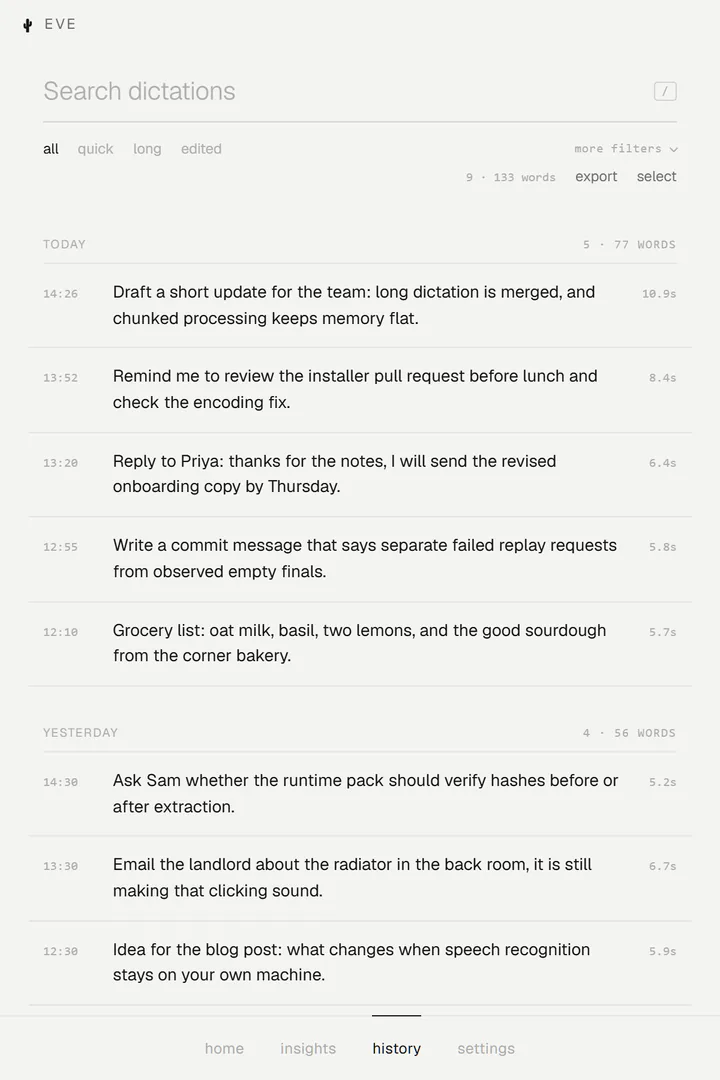
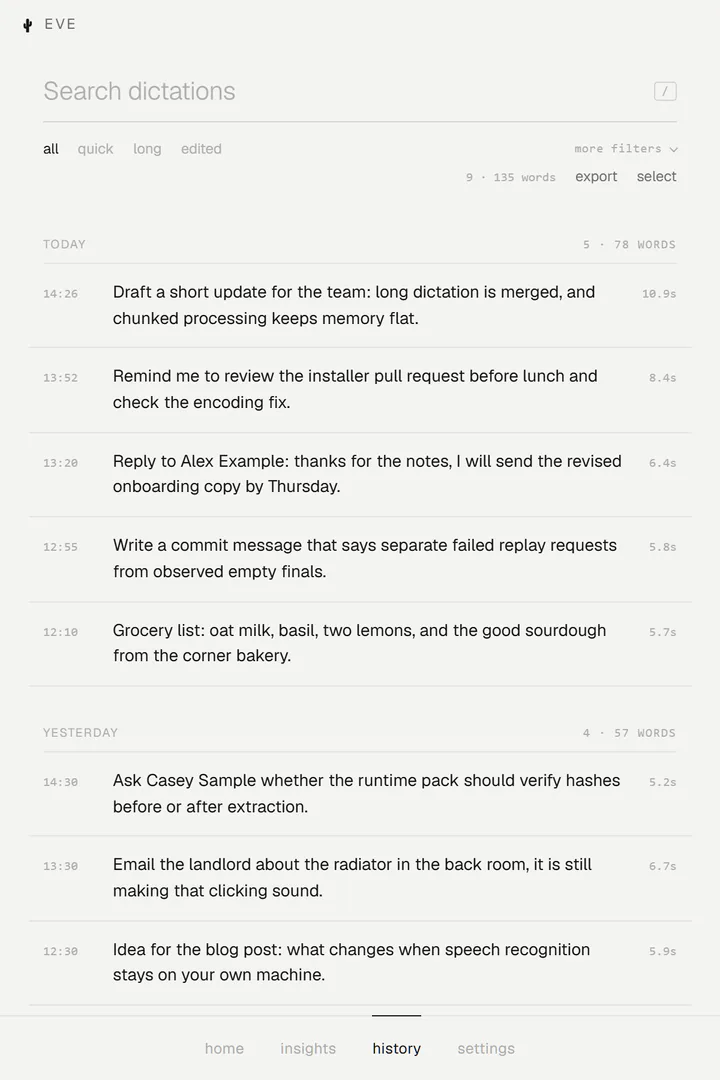
Keep site release details from going stale
Name the version in one place only, derive the channel label from the release tag, and accept release links only inside this repository. softwareVersion is now added to the structured data from the fetched release. Page copy, llms files and the social card no longer name a version or channel. Note that new CPU-only profiles start on small, credit the AVIF sprite, and use fictional names in the History demo.

Changed region(s): [[0.2444, 0.3972, 0.7639, 0.4583], [0.1528, 0.7028, 0.8556, 0.7639]]

diff --git a/site/index.html b/site/index.html
@@ -4,7 +4,7 @@
   <meta charset="utf-8">
   <meta name="viewport" content="width=device-width, initial-scale=1">
   <title>Eve: free local voice dictation for Windows (open source)</title>
-  <meta name="description" content="Eve is a free, open-source dictation app for Windows 10 and 11. Hold a hotkey, speak, and the text is pasted when you stop. Speech runs on your PC. Alpha.">
+  <meta name="description" content="Eve is a free, open-source dictation app for Windows 10 and 11. Hold a hotkey, speak, and the text is pasted when you stop. Speech runs on your PC. Pre-release.">
   <link rel="canonical" href="https://burntcookiedough.github.io/eve-windows-dictation/">
   <meta name="color-scheme" content="dark light">
   <meta name="theme-color" content="#0b0b0b">
@@ -14,7 +14,7 @@
   <meta property="og:locale" content="en_US">
   <meta property="og:url" content="https://burntcookiedough.github.io/eve-windows-dictation/">
   <meta property="og:title" content="Eve: free local voice dictation for Windows">
-  <meta property="og:description" content="Hold a hotkey, speak, and Eve pastes the text when you stop. Speech recognition runs on your own PC. Open source, alpha pre-release.">
+  <meta property="og:description" content="Hold a hotkey, speak, and Eve pastes the text when you stop. Speech recognition runs on your own PC. Open source, pre-release software.">
   <meta property="og:image" content="https://burntcookiedough.github.io/eve-windows-dictation/assets/og.png">
   <meta property="og:image:type" content="image/png">
   <meta property="og:image:width" content="1200">
@@ -22,7 +22,7 @@
   <meta property="og:image:alt" content="Talk. Eve pastes it. Local voice dictation for Windows, shown with the Eve cactus and its small dictation pill.">
   <meta name="twitter:card" content="summary_large_image">
   <meta name="twitter:title" content="Eve: free local voice dictation for Windows">
-  <meta name="twitter:description" content="Hold a hotkey, speak, and Eve pastes the text when you stop. Speech recognition runs on your own PC. Open source, alpha pre-release.">
+  <meta name="twitter:description" content="Hold a hotkey, speak, and Eve pastes the text when you stop. Speech recognition runs on your own PC. Open source, pre-release software.">
   <meta name="twitter:image" content="https://burntcookiedough.github.io/eve-windows-dictation/assets/og.png">
   <meta name="twitter:image:alt" content="Talk. Eve pastes it. Local voice dictation for Windows, shown with the Eve cactus and its small dictation pill.">
 
@@ -31,12 +31,12 @@
   <link rel="preload" href="assets/fonts/geist-latin.woff2" as="font" type="font/woff2" crossorigin>
   <link rel="stylesheet" href="styles.css">
 
-  <script type="application/ld+json">
+  <script type="application/ld+json" id="ld-app">
   {
     "@context": "https://schema.org",
     "@type": "SoftwareApplication",
     "name": "Eve",
-    "description": "Free, open-source push-to-talk dictation for Windows. Speech recognition runs on your own machine and Eve pastes the text when you stop. Alpha pre-release.",
+    "description": "Free, open-source push-to-talk dictation for Windows. Speech recognition runs on your own machine and Eve pastes the text when you stop. Pre-release software.",
     "url": "https://burntcookiedough.github.io/eve-windows-dictation/",
     "image": "https://burntcookiedough.github.io/eve-windows-dictation/assets/og.png",
     "screenshot": "https://burntcookiedough.github.io/eve-windows-dictation/assets/screens/eve-home.png",
@@ -44,8 +44,7 @@
     "processorRequirements": "x86-64",
     "memoryRequirements": "4 GB minimum; 8 GB or more recommended",
     "applicationCategory": "UtilitiesApplication",
-    "softwareVersion": "v0.8.2-alpha.9",
-    "releaseNotes": "https://github.com/burntcookiedough/eve-windows-dictation/releases/tag/v0.8.2-alpha.9",
+    "releaseNotes": "https://github.com/burntcookiedough/eve-windows-dictation/releases",
     "downloadUrl": "https://github.com/burntcookiedough/eve-windows-dictation/releases",
     "license": "https://github.com/burntcookiedough/eve-windows-dictation/blob/trunk/LICENSE",
     "sameAs": "https://github.com/burntcookiedough/eve-windows-dictation",
@@ -91,7 +90,7 @@
       {
         "@type": "Question",
         "name": "Is Eve ready for everyday use?",
-        "acceptedAnswer": { "@type": "Answer", "text": "Eve v0.8.2-alpha.9 is an alpha pre-release, so expect rough edges. Its release notes say that automated tests and synthetic overlay checks do not establish real microphone dictation acceptance or clean-machine installer lifecycle acceptance. Eve is free and MIT licensed." }
+        "acceptedAnswer": { "@type": "Answer", "text": "Eve is pre-release software, so expect rough edges. Before you rely on it, read the latest release notes on GitHub Releases to see what has and has not been verified. Eve is free and MIT licensed." }
       }
     ]
   }
@@ -169,10 +168,10 @@
               <a class="button primary" data-download href="https://github.com/burntcookiedough/eve-windows-dictation/releases">download for windows</a>
               <a class="button" href="https://github.com/burntcookiedough/eve-windows-dictation">view source</a>
             </div>
-            <p class="release-note mono"><span data-version>v0.8.2-alpha.9</span> · <span data-channel>alpha pre-release</span></p>
+            <p class="release-note mono"><span data-version>v0.8.2-alpha.9</span><span data-channel> · alpha pre-release</span></p>
           </div>
           <dl class="hero-meta">
-            <div><dt>version</dt><dd data-version>v0.8.2-alpha.9</dd></div>
+            <div><dt>license</dt><dd>MIT</dd></div>
             <div><dt>platform</dt><dd>windows 10 / 11, x64</dd></div>
             <div><dt>price</dt><dd>free · open source</dd></div>
           </dl>
@@ -355,7 +354,7 @@
           </article>
           <article class="feat">
             <p class="feat-n">05</p>
-            <div class="feat-vis" aria-hidden="true"><span>Kubernetes</span><span>CUDA</span><span>Priya</span><span>SQLite</span></div>
+            <div class="feat-vis" aria-hidden="true"><span>Kubernetes</span><span>CUDA</span><span>Alex Example</span><span>SQLite</span></div>
             <h3>Knows your words.</h3>
             <p>Hotwords help Eve spell names, acronyms, and product terms correctly.</p>
           </article>
@@ -363,7 +362,7 @@
             <p class="feat-n">06</p>
             <div class="feat-vis vis-column" aria-hidden="true"><span class="on">large-v3-turbo</span><span>large-v3</span><span>small</span></div>
             <h3>Faster-Whisper, your pick.</h3>
-            <p><code>large-v3-turbo</code> is recommended (about 1.5 GB), <code>large-v3</code> (about 2.9 GB) is for maximum accuracy, and <code>small</code> (about 0.5 GB) suits lighter hardware. The current model keeps working while a new one downloads.</p>
+            <p><code>large-v3-turbo</code> is recommended (about 1.5 GB), <code>large-v3</code> (about 2.9 GB) is for maximum accuracy, and <code>small</code> (about 0.5 GB) suits lighter hardware. New CPU-only profiles start on <code>small</code> for a faster first download. Turbo runs fastest with the optional GPU pack. The current model keeps working while a new one downloads.</p>
           </article>
           <article class="feat">
             <p class="feat-n">07</p>
@@ -417,7 +416,7 @@
         <div><dt>gpu</dt><dd>Not required. The optional NVIDIA pack needs a supported driver and enough GPU memory.</dd></div>
       </dl>
 
-      <p class="alpha-note"><b>This is an alpha pre-release.</b> Expect rough edges and read the <a href="https://github.com/burntcookiedough/eve-windows-dictation/blob/trunk/docs/releases/eve-v0.8.2-alpha.9-release-notes.md">v0.8.2-alpha.9 release notes</a> first. Checksums (<code>SHA256SUMS.txt</code>, <code>SHA512SUMS.txt</code>) are published with each release.</p>
+      <p class="release-status"><b>Eve is pre-release software.</b> Expect rough edges and read the <a data-download href="https://github.com/burntcookiedough/eve-windows-dictation/releases">latest release notes</a> first. Checksums (<code>SHA256SUMS.txt</code>, <code>SHA512SUMS.txt</code>) are published with each release.</p>
     </section>
 
     <!-- 8 · questions -->
@@ -451,7 +450,7 @@
         </div>
         <div class="faq-item">
           <h3>Is Eve ready for everyday use?</h3>
-          <p>Eve v0.8.2-alpha.9 is an alpha pre-release, so expect rough edges. Its release notes say that automated tests and synthetic overlay checks do not establish real microphone dictation acceptance or clean-machine installer lifecycle acceptance. Eve is free and MIT licensed.</p>
+          <p>Eve is pre-release software, so expect rough edges. Before you rely on it, read the latest release notes on GitHub Releases to see what has and has not been verified. Eve is free and MIT licensed.</p>
         </div>
       </div>
     </section>
@@ -460,7 +459,7 @@
   <footer class="footer">
     <div class="footer-cta">
       <h2>say <em>something.</em></h2>
-      <a class="button primary big" data-download href="https://github.com/burntcookiedough/eve-windows-dictation/releases">download <span data-version>v0.8.2-alpha.9</span></a>
+      <a class="button primary big" data-download href="https://github.com/burntcookiedough/eve-windows-dictation/releases">download for windows</a>
     </div>
 
     <div class="footer-links">

diff --git a/site/main.js b/site/main.js
@@ -1,14 +1,27 @@
 const repo = 'burntcookiedough/eve-windows-dictation';
 
+// The channel comes from the tag; a stable release gets no label.
+function channelFor({ tag_name: tag, prerelease }) {
+  if (/-alpha\b/i.test(tag)) return 'alpha pre-release';
+  if (/-beta\b/i.test(tag)) return 'beta pre-release';
+  return prerelease || tag.includes('-') ? 'pre-release' : '';
+}
+
 // The release list also holds GPU runtime packs, so only accept app tags (v1.2.3...).
 fetch(`https://api.github.com/repos/${repo}/releases?per_page=20`)
   .then((response) => (response.ok ? response.json() : []))
   .then((releases) => {
     const release = releases.find((r) => !r.draft && /^v\d/.test(r.tag_name));
     if (!release) return;
+    const channel = channelFor(release);
     document.querySelectorAll('[data-version]').forEach((el) => { el.textContent = release.tag_name; });
-    document.querySelectorAll('[data-channel]').forEach((el) => { el.textContent = release.prerelease ? 'alpha pre-release' : 'latest release'; });
-    document.querySelectorAll('[data-download]').forEach((el) => { el.href = release.html_url; });
+    document.querySelectorAll('[data-channel]').forEach((el) => { el.textContent = channel && ` · ${channel}`; });
+    // Anything that does not point into this repository leaves the static releases link in place.
+    if (String(release.html_url).startsWith(`https://github.com/${repo}/`)) {
+      document.querySelectorAll('[data-download]').forEach((el) => { el.href = release.html_url; });
+    }
+    const appData = document.getElementById('ld-app');
+    appData.textContent = JSON.stringify({ ...JSON.parse(appData.textContent), softwareVersion: release.tag_name });
   })
   .catch(() => {});
 

diff --git a/site/styles.css b/site/styles.css
@@ -928,8 +928,8 @@ kbd {
 .rows-tight > div { padding: 15px 0; }
 .rows-tight dd { font-size: 15px; font-weight: 400; }
 
-.alpha-note { max-width: 760px; margin-top: 32px; color: var(--fg2); font-size: 14px; }
-.alpha-note b { color: var(--fg); font-weight: 500; }
+.release-status { max-width: 760px; margin-top: 32px; color: var(--fg2); font-size: 14px; }
+.release-status b { color: var(--fg); font-weight: 500; }
 
 /* 8 · FAQ */
 
